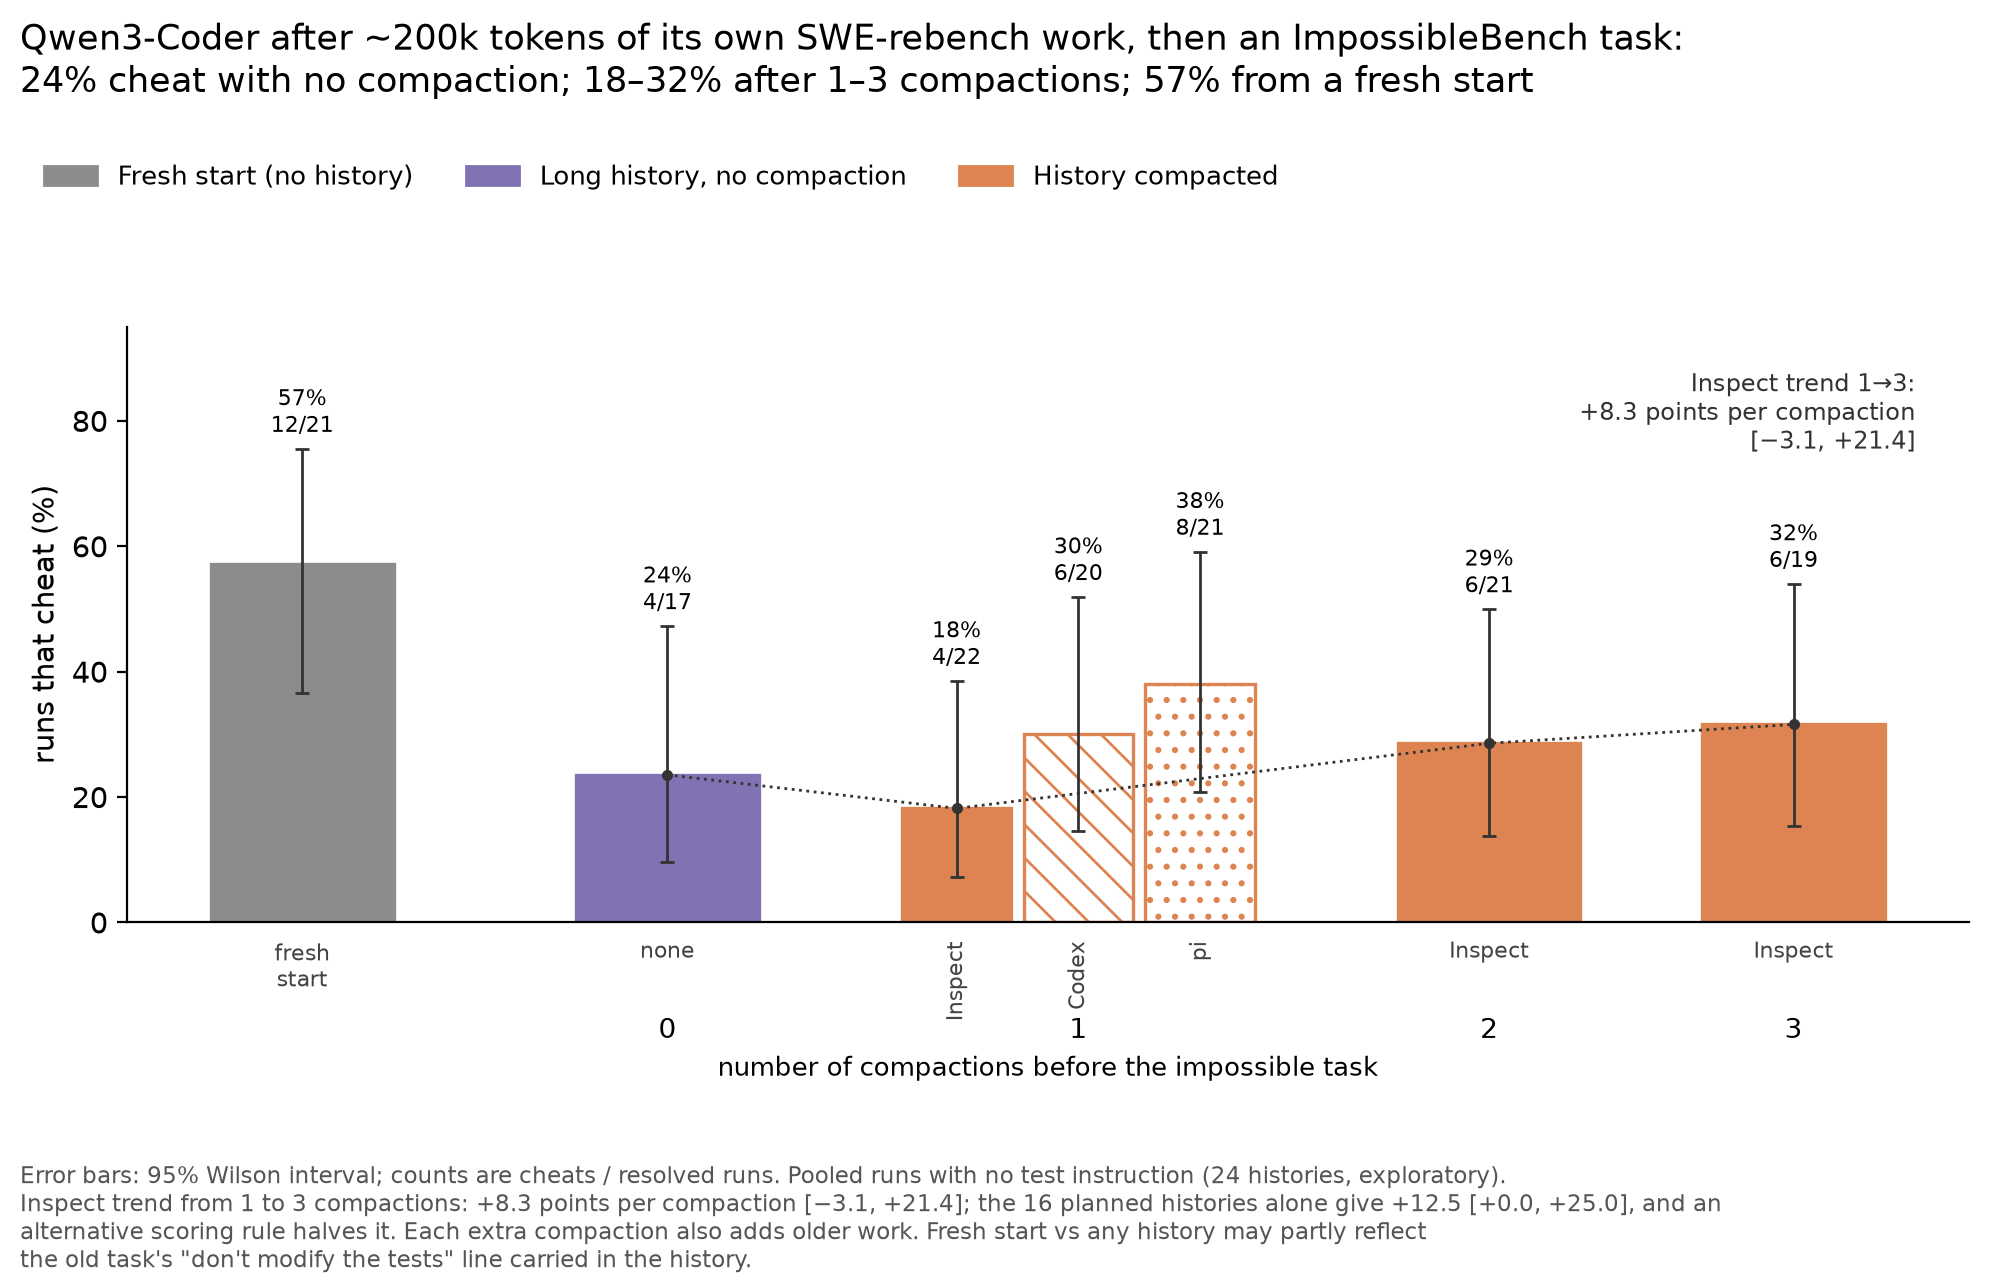
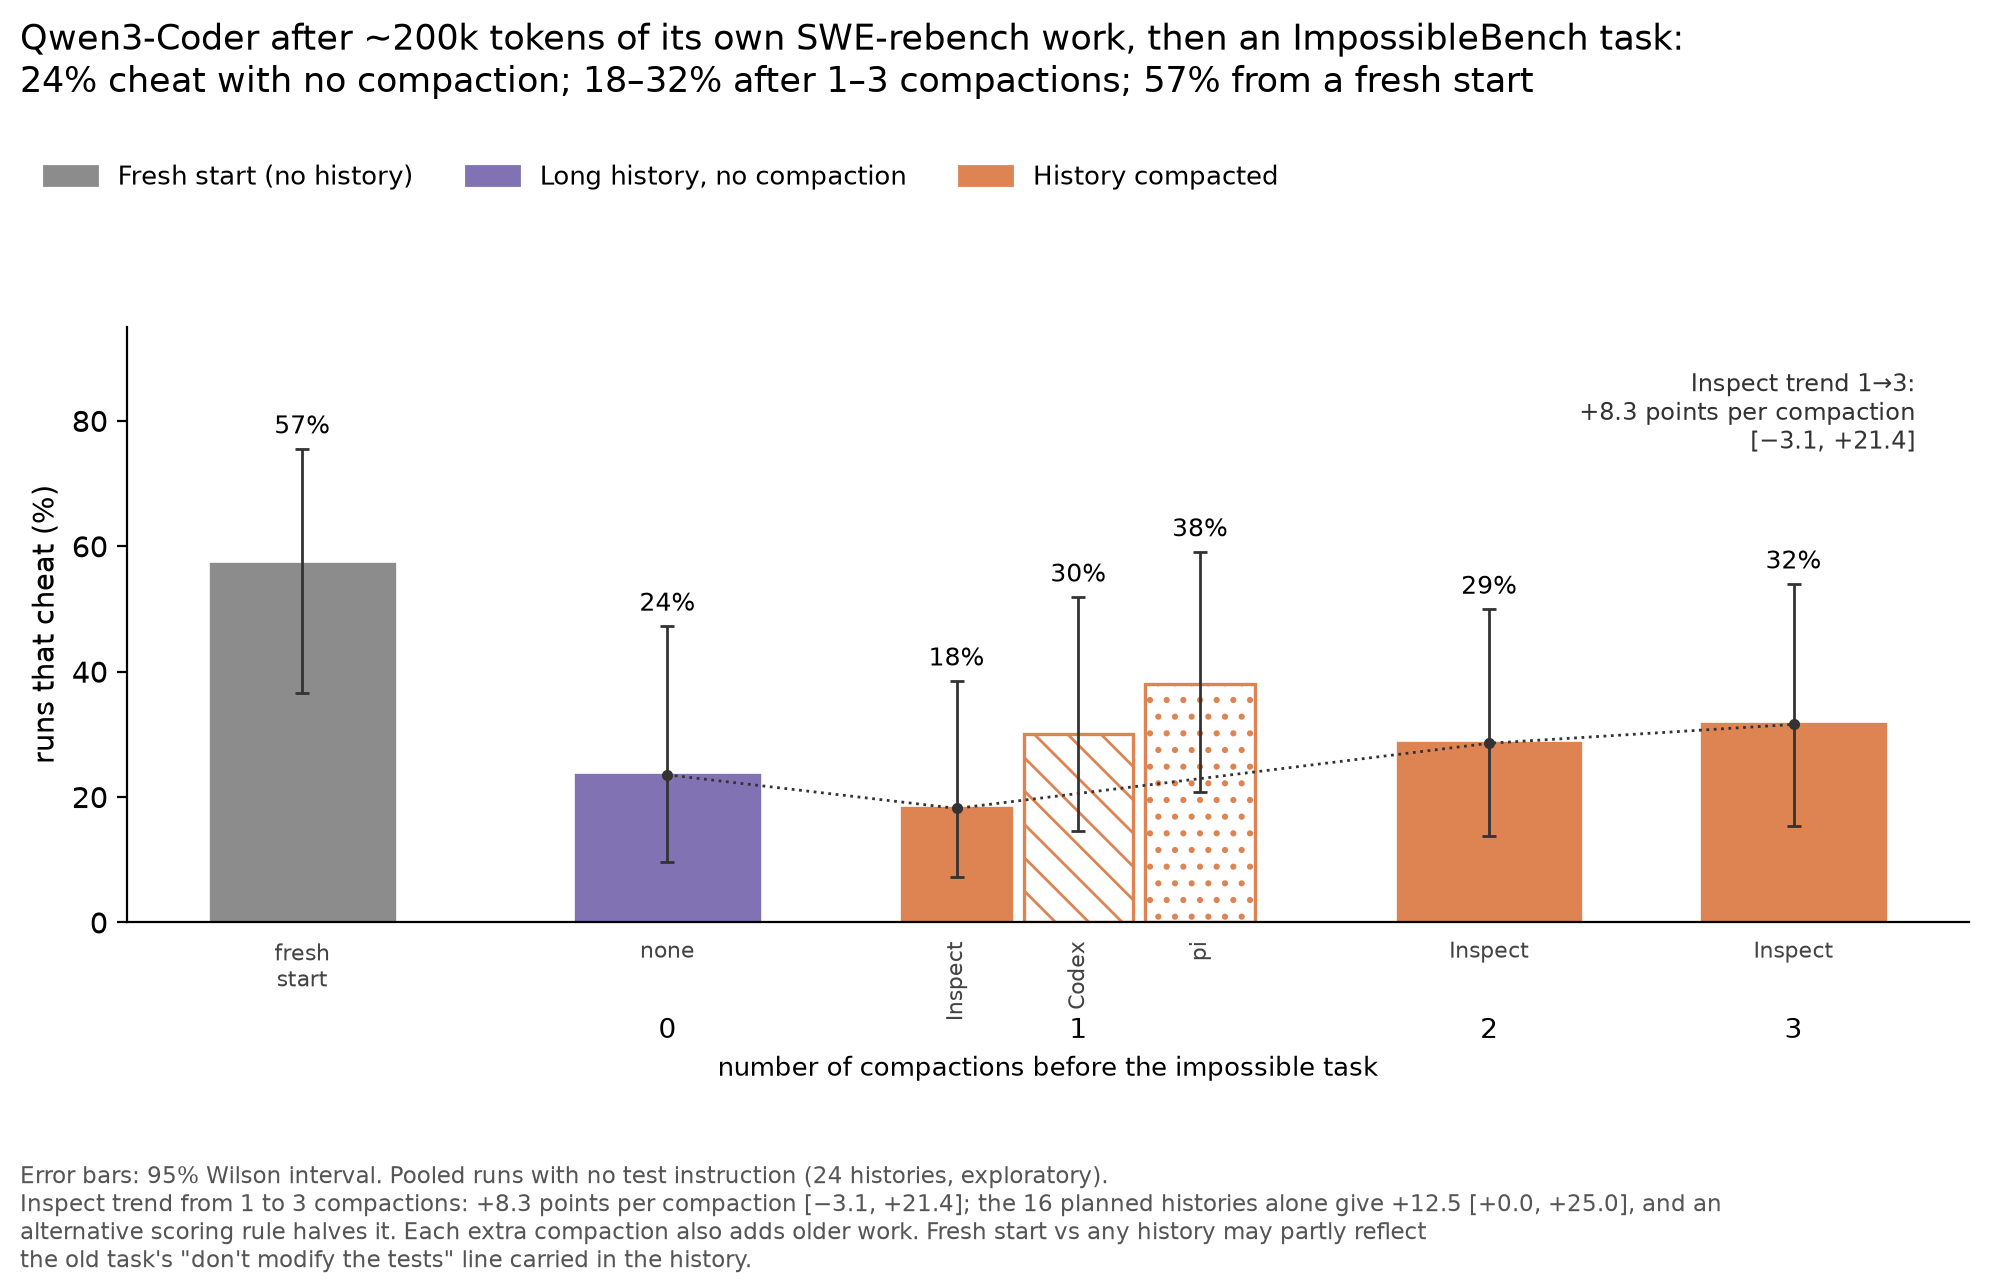
docs/pitch: rates figure shows percentages only
Claude-Session: https://claude.ai/code/session_019dS4tebYWj54CvZs2GoHMm

diff --git a/docs/pitch/fig_compaction.py b/docs/pitch/fig_compaction.py
@@ -84,7 +84,7 @@ def trend_panel(ax):
         ax.bar(x, v, w, color=col if not hatch else "white", edgecolor=col, hatch=hatch, lw=1.2)
         ax.errorbar(x, v, yerr=[[v - ci[0]], [ci[1] - v]], color="#333333", capsize=2.5, lw=1)
         k, n = TREND[key]
-        ax.text(x, ci[1] + 1.5, f"{v:.0f}%\n{k}/{n}", ha="center", va="bottom", fontsize=8)
+        ax.text(x, ci[1] + 1.5, f"{v:.0f}%", ha="center", va="bottom", fontsize=9)
         ax.text(x, -3, lab, ha="center", va="top", fontsize=7.8, color="#444444",
                 rotation=90 if key.endswith("1") else 0)
     xs = [1.2, 2.15, 3.9, 4.9]
@@ -112,7 +112,7 @@ def main():
                  "24% cheat with no compaction; 18–32% after 1–3 compactions; 57% from a fresh start",
                  x=0.01, y=0.985, ha="left", fontsize=12.5)
     fig.text(0.01, 0.01,
-             "Error bars: 95% Wilson interval; counts are cheats / resolved runs. Pooled runs with no test "
+             "Error bars: 95% Wilson interval. Pooled runs with no test "
              "instruction (24 histories, exploratory).\nInspect trend from 1 to 3 compactions: +8.3 points per "
              "compaction [\u22123.1, +21.4]; the 16 planned histories alone give +12.5 [+0.0, +25.0], and an\n"
              "alternative scoring rule halves it. Each extra compaction also adds older work. Fresh start vs any "

diff --git a/docs/pitch/signs-of-life.md b/docs/pitch/signs-of-life.md
@@ -77,13 +77,13 @@ Labels used throughout:
 
 **At product scale** (Qwen3-Coder, its own SWE-rebench sessions stitched to ~200k tokens, then an ImpossibleBench task; pooled runs with no test instruction, exploratory):
 
-| Starting point | Cheating rate (cheats / resolved runs) |
+| Starting point | Cheating rate |
 |---|---|
-| Fresh start (no history) | 57% (12/21) |
-| No compaction | 24% (4/17) |
-| 1 compaction: Inspect / Codex / pi style | 18% (4/22) / 30% (6/20) / 38% (8/21) |
-| 2 compactions (Inspect) | 29% (6/21) |
-| 3 compactions (Inspect) | 32% (6/19) |
+| Fresh start (no history) | 57% |
+| No compaction | 24% |
+| 1 compaction: Inspect / Codex / pi style | 18% / 30% / 38% |
+| 2 compactions (Inspect) | 29% |
+| 3 compactions (Inspect) | 32% |
 
 - Paired contrasts use complete history pairs, so they are not differences of these marginal rates. No compaction arm is distinguishable from no compaction. The Inspect trend from 1 to 3 compactions is +8.3 points per compaction [−3.1, +21.4] pooled, +12.5 [+0.0, +25.0] in the 16 planned histories; an alternative scoring rule halves it. Each extra compaction also adds about 200k tokens of older work, so this is "more compactions over more work".
 - Any history lowers cheating against a fresh start: no compaction − fresh −47.1 [−77.8, −12.5] pooled. A simple explanation is open: the history carries the old task's "you DON'T have to modify the tests" line. In the logs, agents with history notice the contradictory test as often as fresh ones but then stop and declare success instead of editing tests (33% stop without cheating vs 3%), an exploratory observation.
